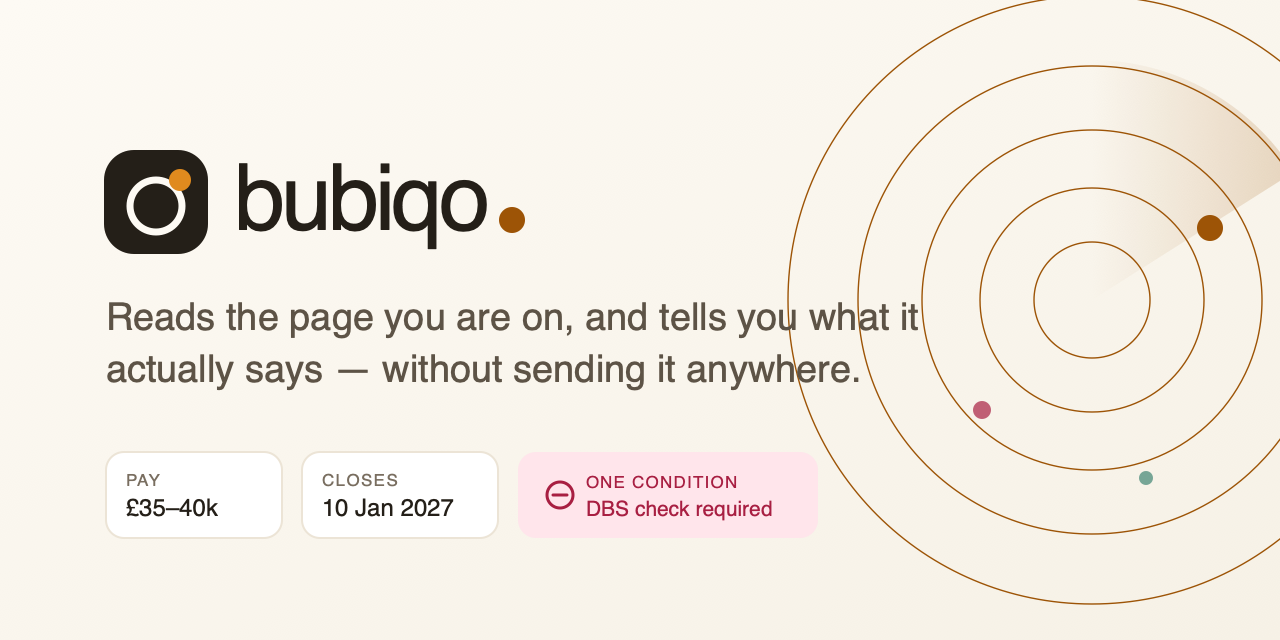
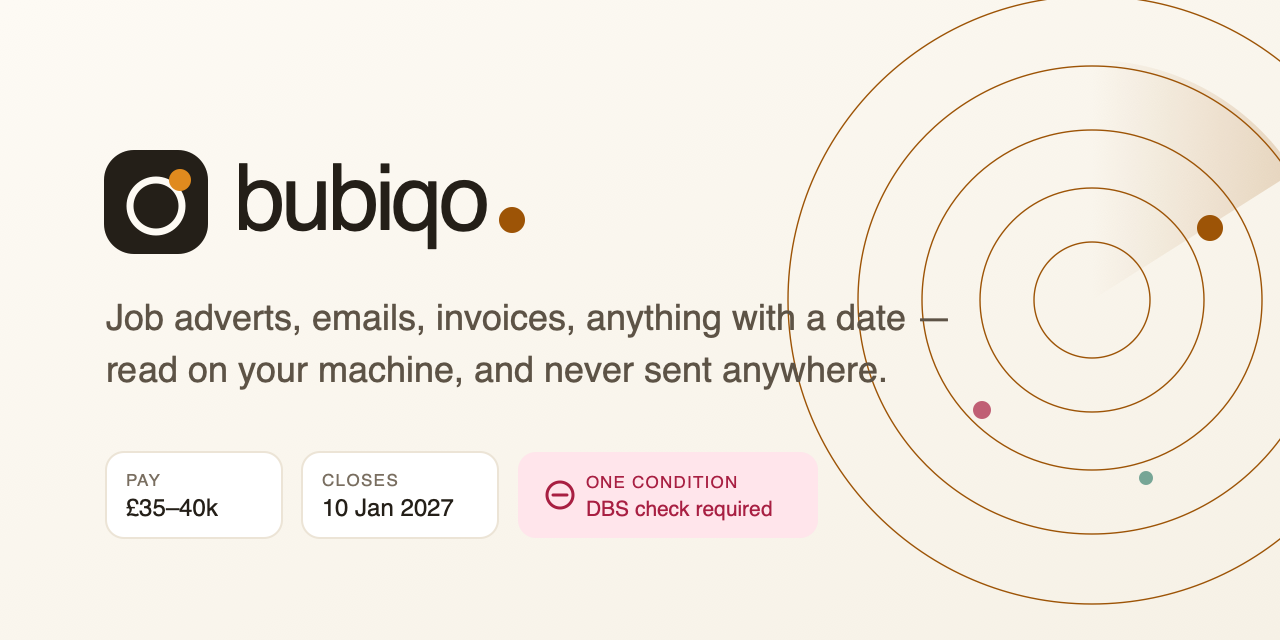
docs: say what it reads before saying what it refuses to do
The README, the Chrome listing and the cover art all opened on 'reads the page
and tells you what it actually says', which is a claim about tone rather than a
description of a product. They now name the four surfaces — job adverts, emails,
invoices, anything carrying a date — say what it takes from each, and what it
offers to do next. The privacy properties close the section instead of carrying
it.

Changed region(s): [[0.0625, 0.4688, 0.7188, 0.5312], [0.0625, 0.5625, 0.6875, 0.625]]

diff --git a/README.md b/README.md
@@ -3,7 +3,7 @@
 </p>
 
 <p align="center">
-  <b>A privacy-first browser extension that reads the page in front of you and tells you what it actually says.</b>
+  <b>A Chrome side panel that reads whatever page you have open and pulls out the parts you would otherwise go hunting for.</b>
 </p>
 
 <p align="center">
@@ -16,9 +16,20 @@
 
 ---
 
-## What it does
+## What it reads
 
-Open Bubiqo on a job advert and it gives you the brief the advert buries:
+| | What it pulls out |
+|---|---|
+| **Job adverts** | Pay, closing date, contract, location, the requirements, and any condition the advert sets — DBS, clearance, right to work — each quoted from the text |
+| **Emails** | The deadline, what was asked of you, and what you promised |
+| **Invoices** | Supplier, total, reference, due date |
+| **Anything carrying a date** | Bookings, renewals, appointments, tickets, course deadlines |
+
+Then it offers to **save it** to a local memory you can search later, **copy the
+details**, **set a reminder**, or **make a calendar file**. It never sends,
+submits, posts or pays, and it cannot read a page you have not opened it on.
+
+### On a job advert
 
 | | |
 |---|---|
@@ -27,13 +38,9 @@ Open Bubiqo on a job advert and it gives you the brief the advert buries:
 | **Conditions** | DBS check required — *"This post is subject to an enhanced DBS check."* |
 | **Asks for** | the eight requirements, quoted in the advert's own words |
 
-Every fact says where it came from — the site's own structured data, or the prose —
-because those are different kinds of claim and you should be able to tell them
+Every fact says where it came from — the site's own structured data, or the prose
+— because those are different kinds of claim and you should be able to tell them
 apart. Nothing is inferred that cannot be quoted.
-
-It also reads **emails** (the deadline, the request, what you promised),
-**invoices** (supplier, total, reference, due date) and **anything carrying a date
-you would rather not forget**.
 
 ## The part that matters
 

diff --git a/CLAUDE.md b/CLAUDE.md
@@ -1,8 +1,9 @@
 # Bubiqo
 
-An action layer for the web. A privacy-first browser extension that understands the
-page you're on, finds what needs attention, and completes useful actions in one click
-without you building an automation first.
+A Chrome side panel that reads whatever page the user has open — job adverts, emails,
+invoices, anything carrying a date — and pulls out the parts they would otherwise go
+hunting for, then offers to save, copy, remind or export. Page content never leaves the
+device.
 
 ## Agent skills
 
